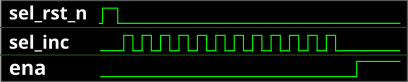
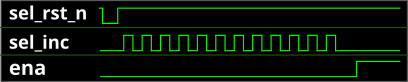
docs: fix inverted `sel_rst_n` signal in diagram

Changed region(s): [[0.2353, 0.0732, 1.0, 0.122], [0.2353, 0.2683, 1.0, 0.2927]]

diff --git a/docs/INFO.md b/docs/INFO.md
@@ -28,15 +28,15 @@ The multiplexer consists of three main units:
 
 The mux controller has 3 inputs lines:
 
-| Input       | Description                                       |
-| ----------- | ------------------------------------------------- |
-| `ena`       | Sent as-as (buffered) to the downstream mux units |
-| `sel_rst_n` | Resets the internal address counter to 0          |
-| `sel_inc`   | Increments the internal address counter by 1      |
+| Input       | Description                                           |
+| ----------- | ----------------------------------------------------- |
+| `ena`       | Sent as-as (buffered) to the downstream mux units     |
+| `sel_rst_n` | Resets the internal address counter to 0 (active low) |
+| `sel_inc`   | Increments the internal address counter by 1          |
 
 It outputs the address of the currently selected design on the `si_sel` port of the spine (see below).
 
-For instance, to select the design at address 12, you'll pulse `sel_rst_n` once, and then pulse `sel_inc` 12 times:
+For instance, to select the design at address 12, you need to pulse `sel_rst_n` low, and then pulse `sel_inc` 12 times:
 
 ![Mux signals for activating the design at address 12](diagrams/mux_select_addr_12.png)
 
